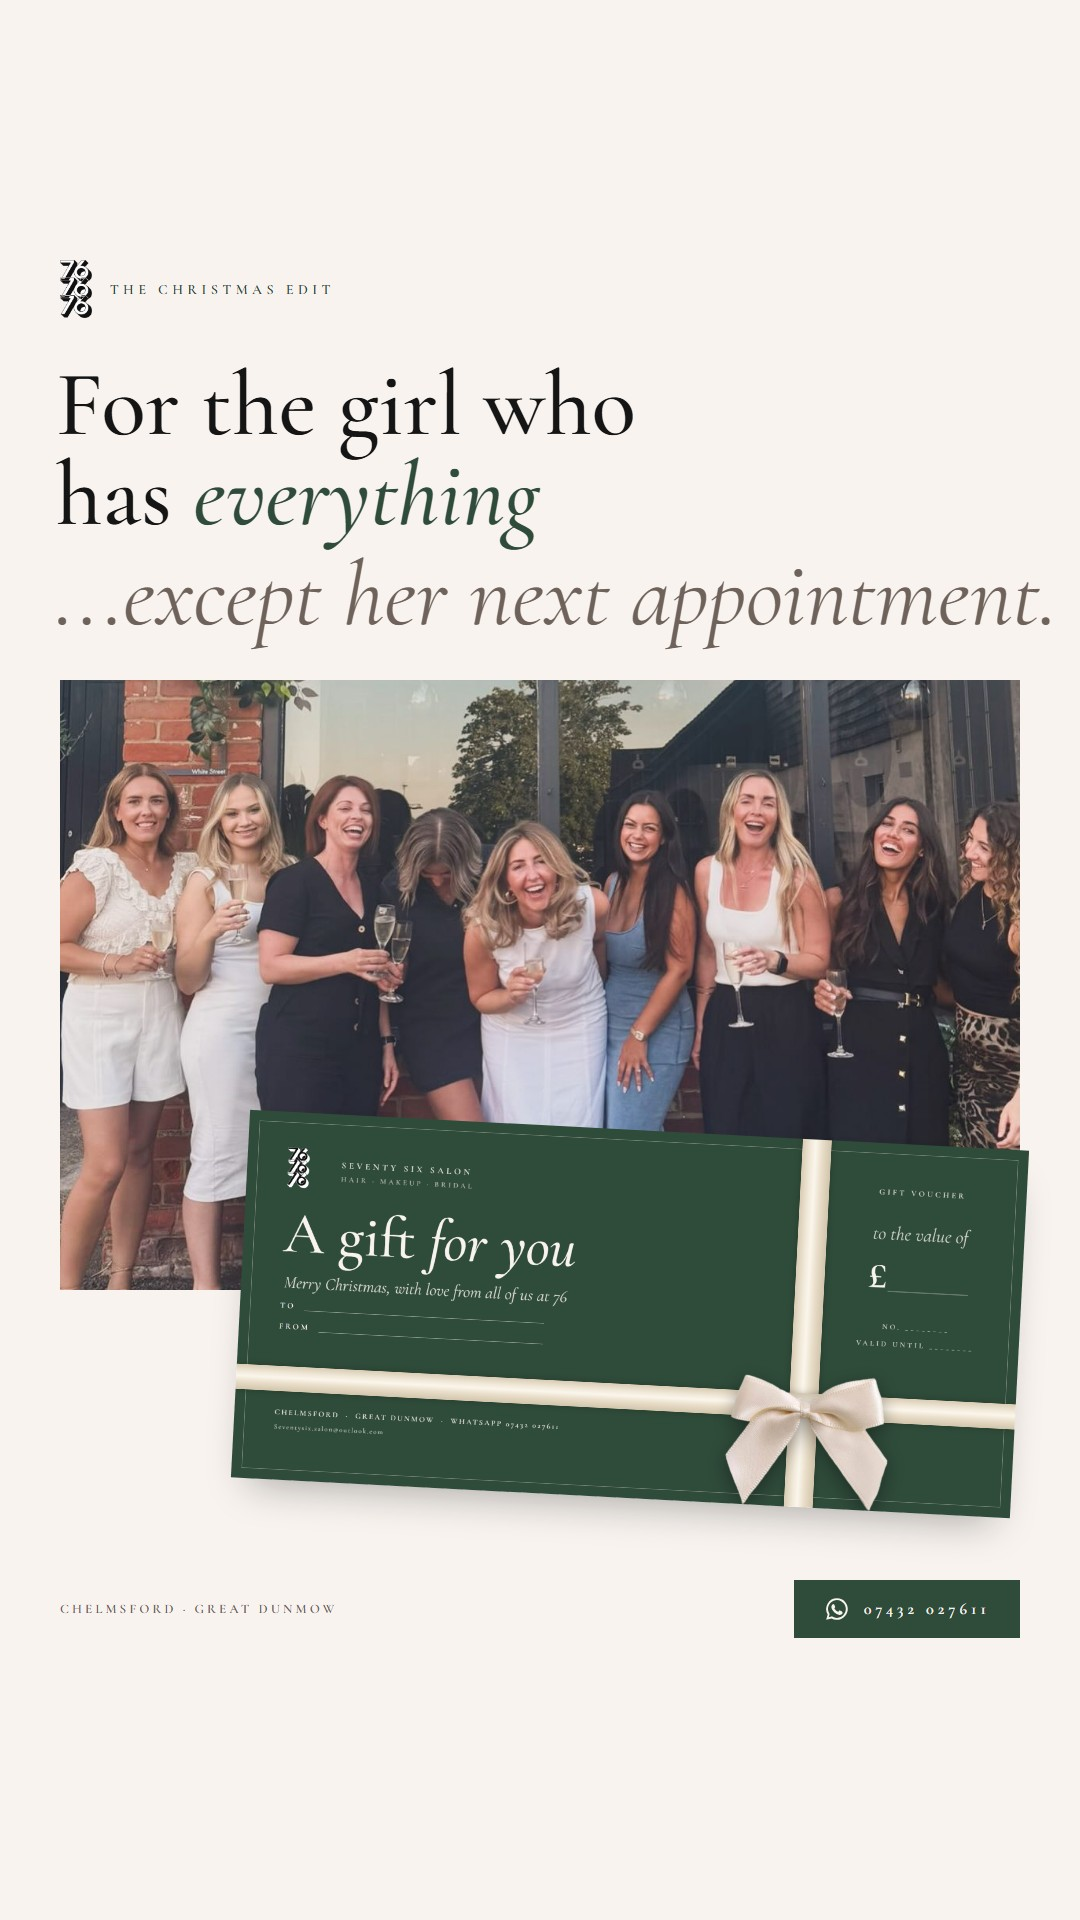
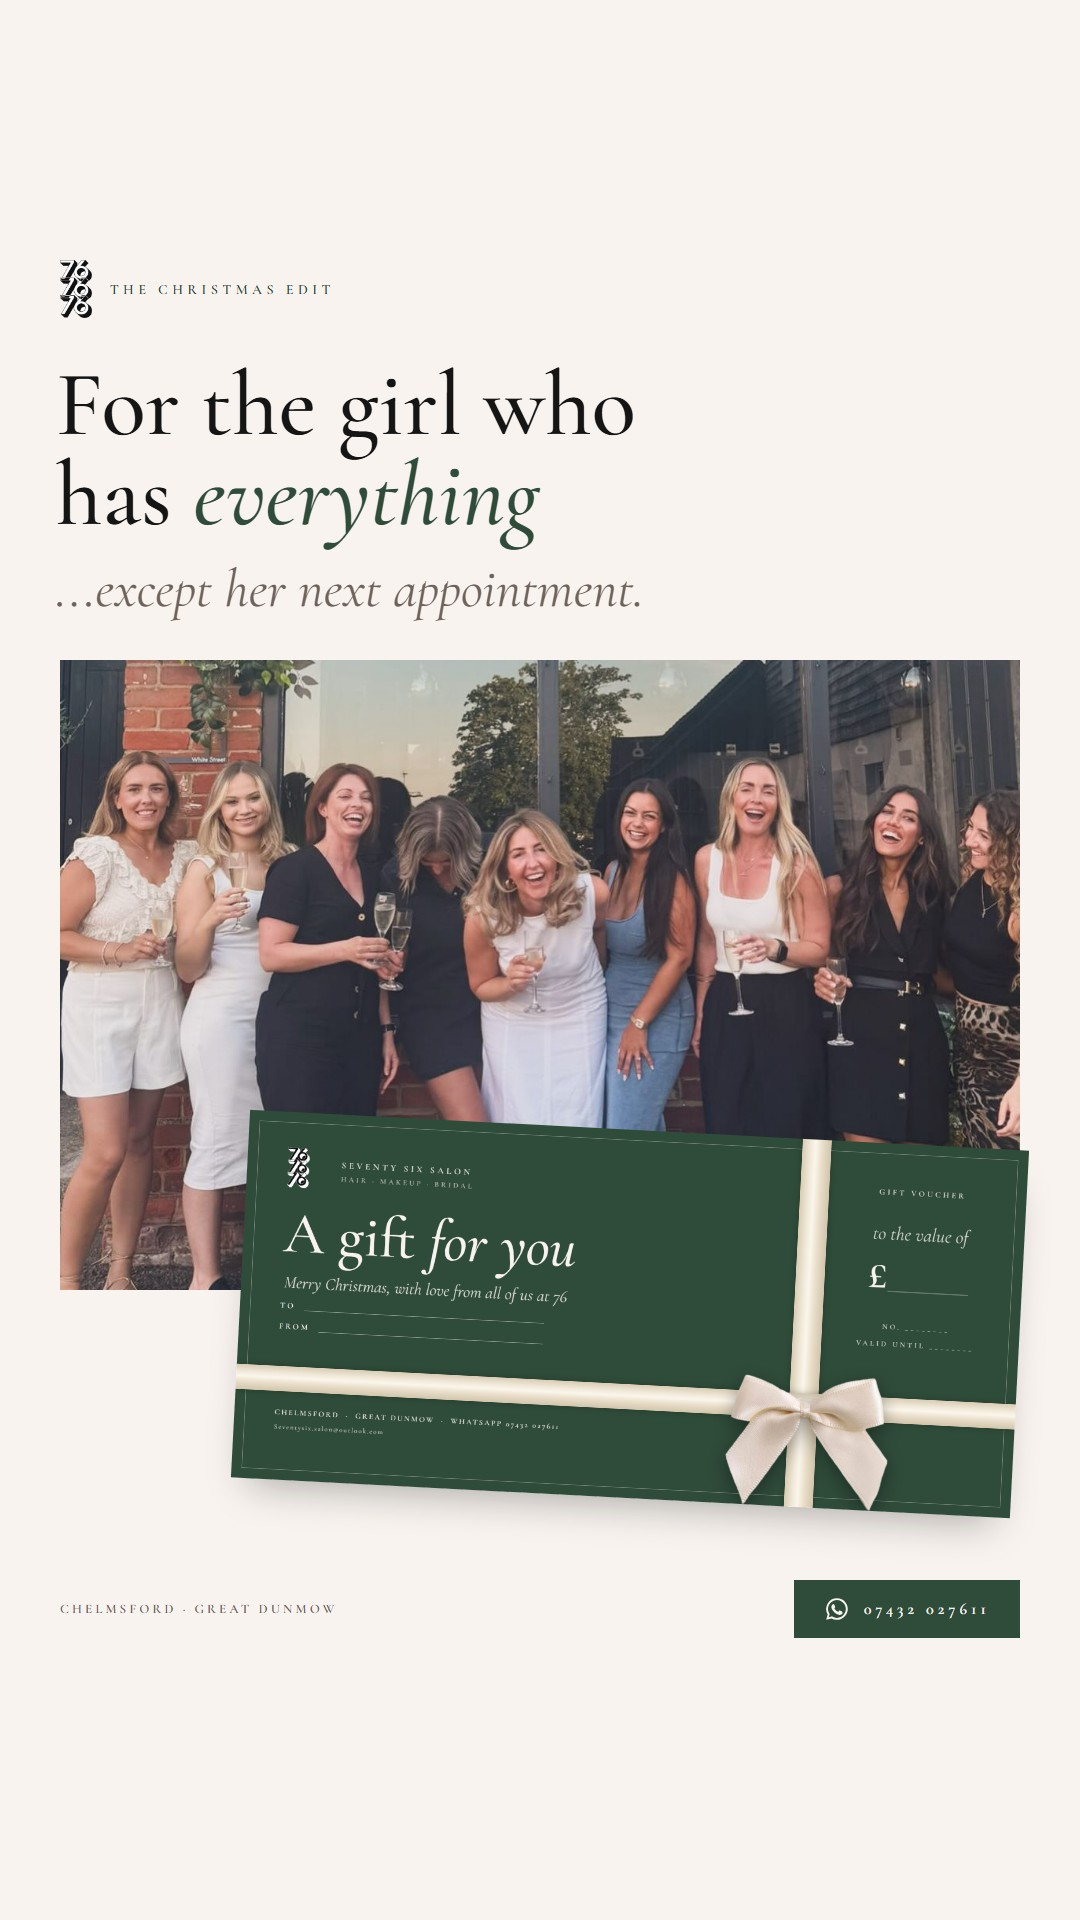
76 planner: voucher ad 4 subline smaller, between headline and old size (Maria)

Changed region(s): [[0.0611, 0.2812, 0.9472, 0.625], [0.0611, 0.5625, 0.2444, 0.6875], [0.8861, 0.2812, 0.9167, 0.3125]]

diff --git a/seventysix-planner/index.html b/seventysix-planner/index.html
@@ -356,7 +356,7 @@ Our 1:1 makeup lesson is just you and our makeup artist. With your own makeup ba
       <figure><button><img src="img/voucher-ad/ad1-feed.jpg?v=3" alt="Gift voucher ad option 1, feed" loading="lazy"></button><figcaption><b>Option 1</b> · Give her great hair</figcaption></figure>
       <figure><button><img src="img/voucher-ad/ad2-feed.jpg" alt="Gift voucher ad option 2, feed" loading="lazy"></button><figcaption><b>Option 2</b> · Christmas, sorted</figcaption></figure>
       <figure><button><img src="img/voucher-ad/ad3-feed-k.jpg" alt="Gift voucher ad option 3, feed" loading="lazy"></button><figcaption><b>Option 3</b> · The gift of great hair</figcaption></figure>
-      <figure><button><img src="img/voucher-ad/ad4-feed.jpg?v=3" alt="Gift voucher ad option 4, feed" loading="lazy"></button><figcaption><b>Option 4</b> · For the girl who has everything</figcaption></figure>
+      <figure><button><img src="img/voucher-ad/ad4-feed.jpg?v=4" alt="Gift voucher ad option 4, feed" loading="lazy"></button><figcaption><b>Option 4</b> · For the girl who has everything</figcaption></figure>
     </div>
     <div class="mu-cap"><b>Ad text</b>Christmas gift vouchers are here 🎁 Treat someone special to hair or makeup at Seventy Six, Chelmsford or Great Dunmow. Message us on WhatsApp to get yours 💚
 
@@ -392,7 +392,7 @@ Can clients buy them over WhatsApp, or in the salon only?</div>
     <div class="st-row">
       <figure><button style="position:relative"><img src="img/stories/chelm-F-bd.jpg" alt="Availability" loading="lazy"></button><figcaption><b>Mon 6:30 am</b> · Availability</figcaption></figure>
       <figure><button style="position:relative"><img src="img/stories/offer-pkg-chelm4.jpg" alt="Blowdry package £80" loading="lazy"></button><figcaption><b>Tue 6:30 am</b> · Blowdry package £80</figcaption></figure>
-      <figure><button style="position:relative"><img src="img/voucher-ad/ad4-story.jpg?v=9" alt="Gift vouchers" loading="lazy"></button><figcaption><b>Wed 6:30 am</b> · Gift vouchers</figcaption></figure>
+      <figure><button style="position:relative"><img src="img/voucher-ad/ad4-story.jpg?v=10" alt="Gift vouchers" loading="lazy"></button><figcaption><b>Wed 6:30 am</b> · Gift vouchers</figcaption></figure>
       <figure><button style="position:relative"><img src="img/stories/repost-chelm.jpg" alt="Availability repost (Tue + Thu crossed off)" loading="lazy"></button><figcaption><b>Thu 6:30 am</b> · Availability repost (Tue + Thu crossed off)</figcaption></figure>
       <figure><button style="position:relative"><img src="img/stories/offer-emmabf.jpg" alt="Emma £150 colour, last call before Friday" loading="lazy"></button><figcaption><b>Thu 6:30 am</b> · Emma £150 colour, last call before Friday</figcaption></figure>
       <figure><button style="position:relative"><img src="img/makeup/mua-story-chelm-o4.jpg" alt="1:1 makeup lesson" loading="lazy"></button><figcaption><b>Fri 6:30 am</b> · 1:1 makeup lesson</figcaption></figure>
